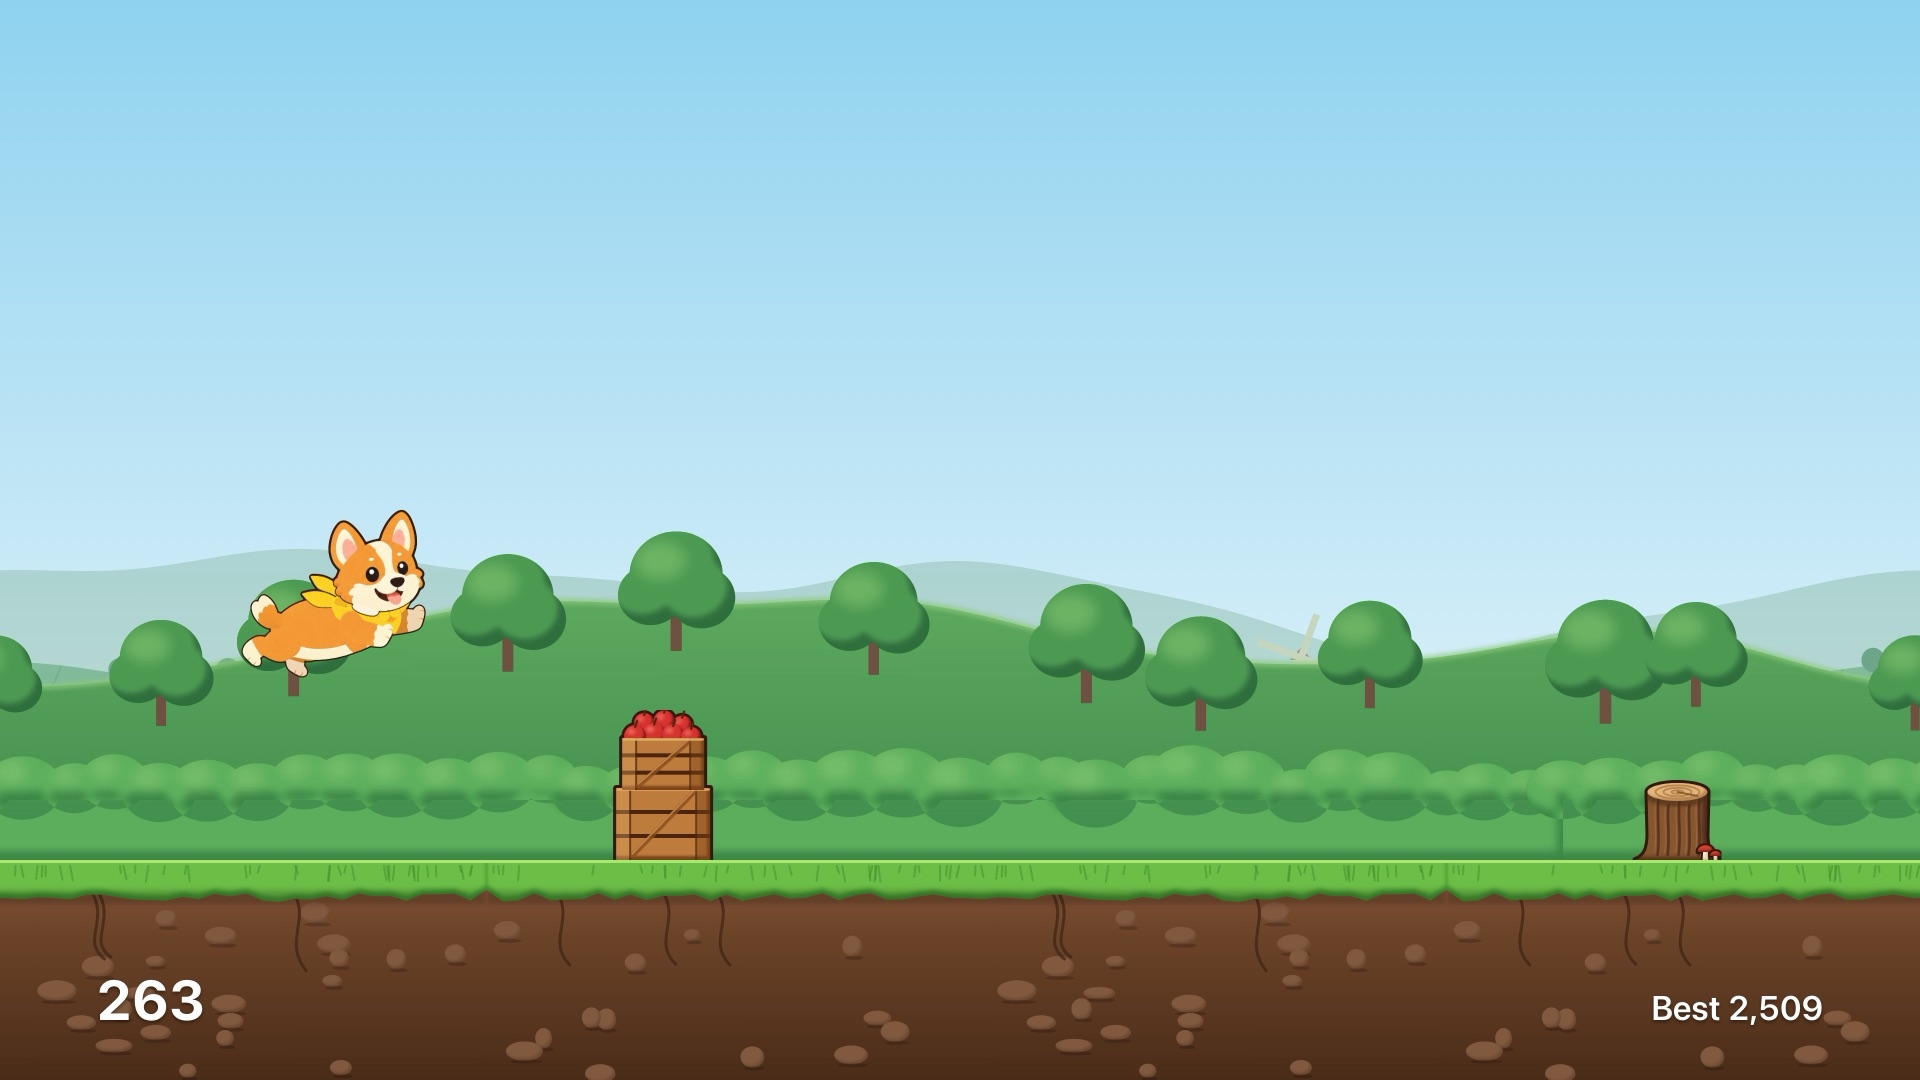
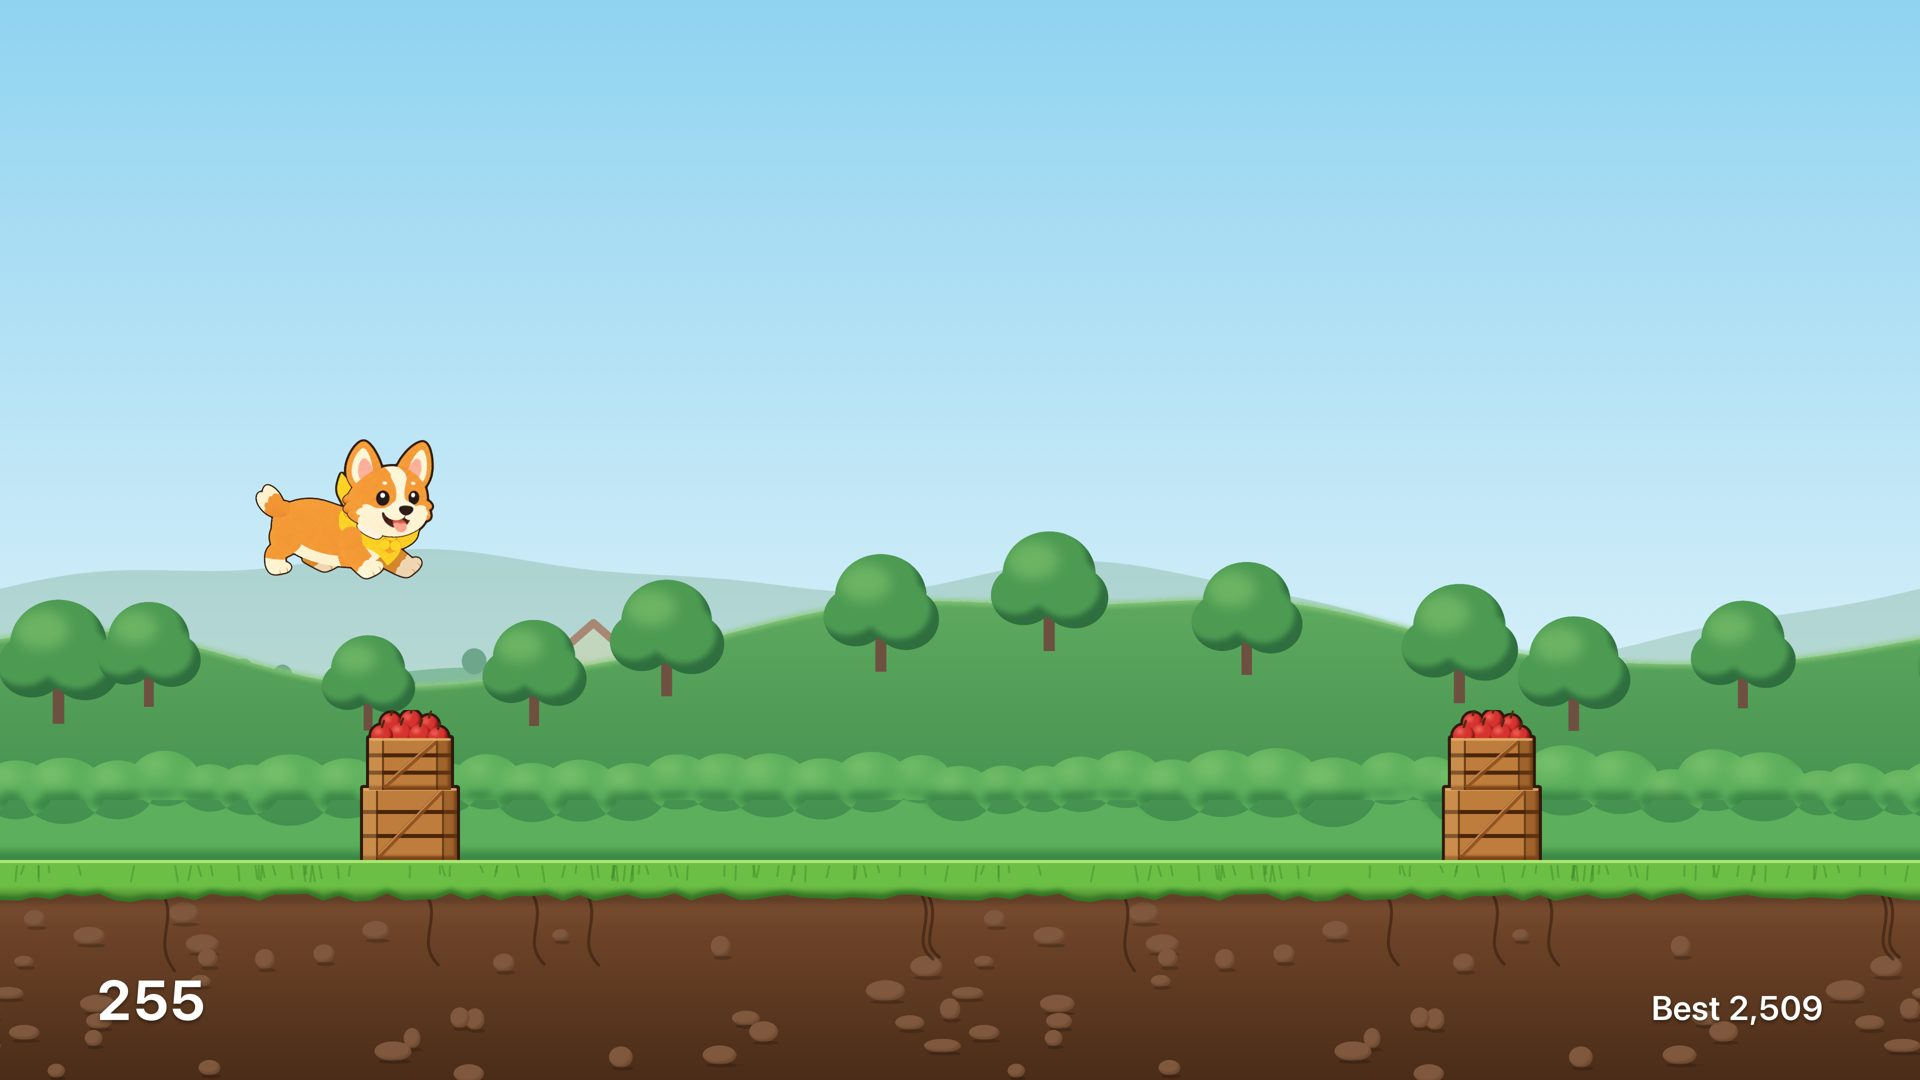
Privacy policy: the data that the game collects

diff --git a/privacy.html b/privacy.html
@@ -11,16 +11,16 @@
 <p><a href="./">Corgi Runner</a></p>
 <h1>Privacy Policy</h1>
 <p class="lead">Effective 24 November 2026.</p>
-<p>Corgi Runner has no advertising, no tracking and no account of its own. The game does not send data to the developer.</p>
+<p>Corgi Runner has no advertising, no tracking and no account of its own. We collect data to improve the user experience.</p>
 
 <h2>Data on your Apple TV</h2>
-<p>The game keeps the ten best runs, the names that you type after a run, and your best score in its settings on your Apple TV. When you remove the game, the Apple TV removes them.</p>
+<p>The game keeps the ten best runs, the names that you type after a run, and your best score in its settings on your Apple TV. When you remove the game, the Apple TV removes the runs and the names. The best score stays in your iCloud.</p>
 
 <h2>iCloud</h2>
-<p>The game keeps your best score in your iCloud, so that your Apple TVs have the same one. The names and the list of runs do not go to iCloud.</p>
+<p>The game keeps your best score in your iCloud. The game reads it on your other Apple TVs. The names and the list of runs do not go to iCloud.</p>
 
 <h2>Game Center</h2>
-<p>When you are signed in to Game Center, the game sends the score of each run to the world leaderboard. Apple shows it with your Game Center name. Apple keeps this data under <a href="https://www.apple.com/legal/privacy/">its own privacy policy</a>.</p>
+<p>When you are signed in to Game Center, the game sends the score of each run and the best score of this Apple TV to the world leaderboard. Apple shows it with your Game Center name. Apple keeps this data under <a href="https://www.apple.com/legal/privacy/">its own privacy policy</a>.</p>
 
 <h2>Children</h2>
 <p>The game does not ask for personal data. A name after a run is optional and can be any word.</p>
